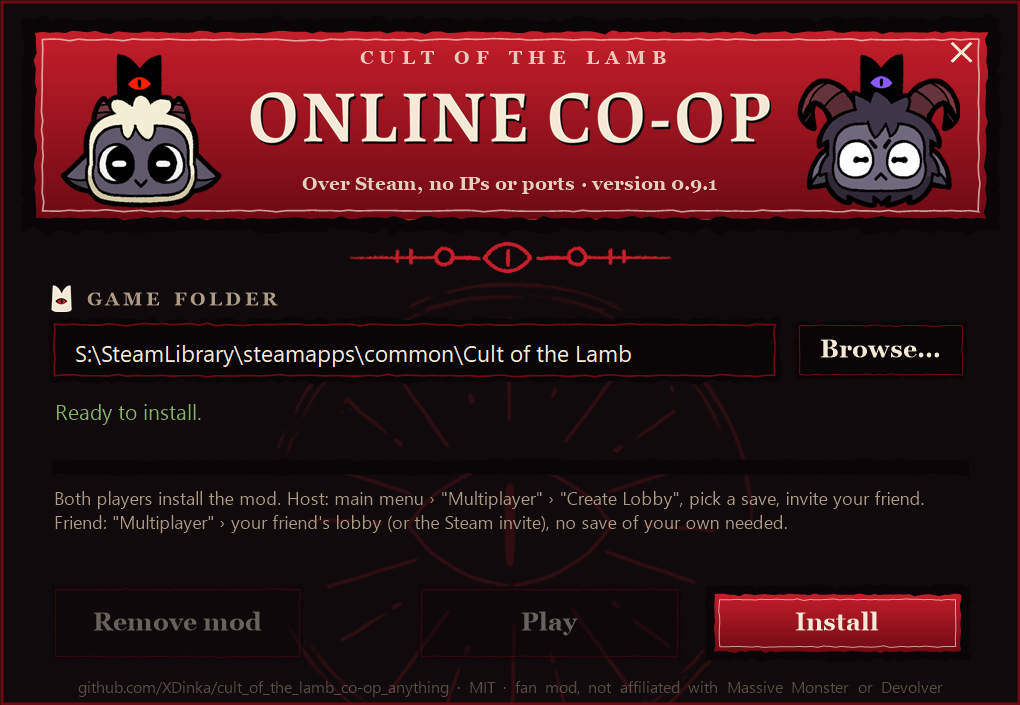
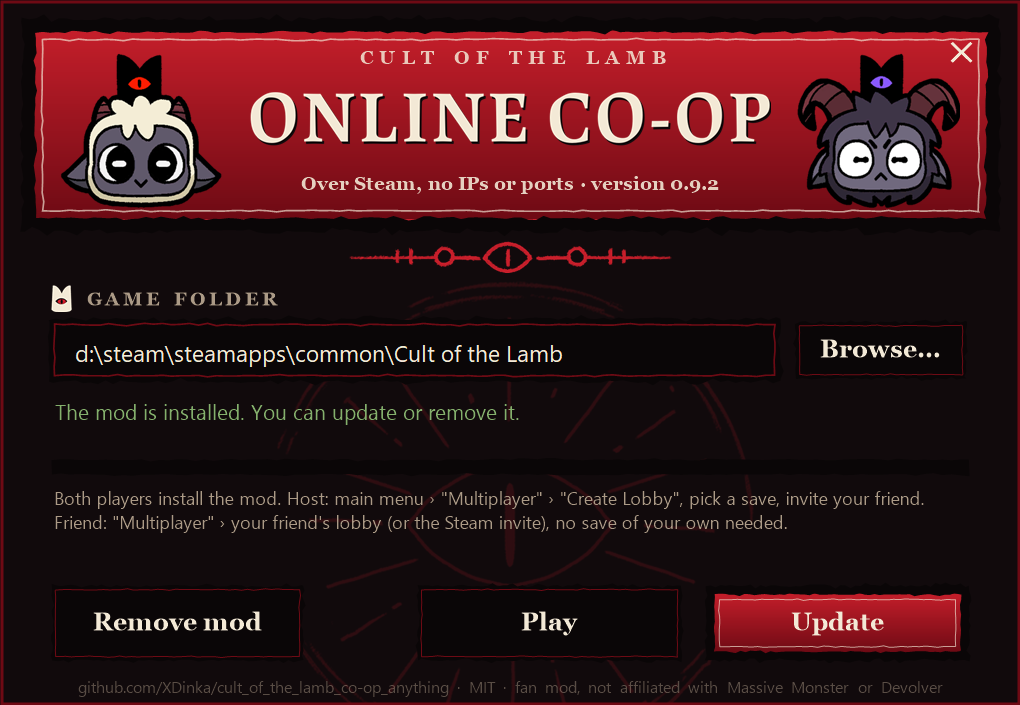
0.9.2: the version, the changelog and the art

diff --git a/COTLMP/Data/Version.cs b/COTLMP/Data/Version.cs
@@ -21,7 +21,7 @@ namespace COTLMP.Data
     {
         public const string CotlMpGuid = "geob99.cotl.cotlmp";
         public const string CotlMpName = "Cult of the Lamb Multiplayer Mod Plug-In";
-        public const string CotlMpVer = "0.9.1";
+        public const string CotlMpVer = "0.9.2";
     }
 }
 

diff --git a/CHANGELOG.md b/CHANGELOG.md
@@ -3,6 +3,85 @@
 Every release is on the [releases page](https://github.com/XDinka/cult_of_the_lamb_co-op_anything/releases)
 with its installer. Both players need the same version.
 
+## 0.9.2 (2026-10-29)
+
+Both players need this version.
+
+**Your hearts stay on screen when you're alone in a room** (the likely cause of "the friend's
+interface is gone"). When the partner went on ahead, or you came into a room on your own, the game
+rebuilt the hearts panel out of sight and the HUD stood without hearts until the partner came back.
+The panel now comes back in as the game's own does.
+
+![Alone in a room, the hearts stay](Media/changelog/0.9.2-hearts-alone.png)
+
+**Conversations hold together.** A conversation that waited for the partner now starts with its
+letterbox and the lamb held still; a copy started as a room comes in waits for the host's; a host
+whose game lags is waited for, with a line saying so, instead of the friend's copy being cut off
+(after a lag the room, the fight or the next talk that hang on it now come on both sides). A
+conversation the host leads always ends for the friend too.
+
+![The host's game lags: the friend waits with a line of the game's (a test conversation)](Media/changelog/0.9.2-host-lags.png)
+
+**One death screen for the pair.** Both see the same rooms and the same run time, a lamb no longer
+gets up behind its death screen, going home ends the run for both, and nobody lies down for good.
+Getting a fallen partner up is the game's own deal: you give them one heart at their side.
+
+**The One Who Waits' fate is asked of both.** At the very end the host's answer decides for the
+pair, the friend's pick shows as a vote, and the follower is spared or killed once.
+
+![The One Who Waits' fate on the friend's screen](Media/changelog/0.9.2-fate-wheel.png)
+
+**The partner's puppet keeps out of your way.** The game's own conversations and menus no longer
+hand their input to the puppet, so they read on; fleece 4 and 6 deal the tarot only to you, not a
+second time to the puppet; and knucklebones at Ratau's or another player's table no longer offers
+the match for two with the puppet in the second seat.
+
+**Smaller mendings.** The HUD watchdog leaves the game's own scenes and menus alone (it brought the
+HUD up over a chest's new item card); found in a test run and fixed by the code, not tested since:
+it also leaves alone the game's room of coming back to life, which hides the HUD on purpose; the
+game's walks are never cut short, so a room comes alive
+behind its door; the HUD comes in and out in step when the panels are rebuilt.
+
+**Tested** (two copies of the game on one PC, a loopback stand-in for Steam, the host on a copy of a
+real save, on this release's build): getting a fallen partner up both ways, by the logs (one heart
+given, the partner up with one heart, their figure standing again); the HUD after scenes and alone in
+a room, with both sides' frames. On earlier builds of 0.9.2: a conversation that waits and a lagging
+host, fleece 4, with both sides' frames; knucklebones, the lobby with a join from the friend's menu
+and a called-off reconnect, by the logs. On the stand without a save: the fate and the death screen.
+
+**Not tested:** real two-account Steam play; the game's real conversations (Ratau's, a mini-boss's
+intro) and the menus' watchdog with anything but a test conversation; coming into a room alone; the
+host left alone; knucklebones at a real table (only test tables); fishing; the host coming into the
+first room second.
+
+**Known issues:**
+- In the cult the friend sometimes has only the hearts, without the faith circle and the hunger bar;
+  going out of the cult and back in helps. The cause isn't found yet.
+- The game's ways back from death (the corrupted monolith after the final boss, the crown's pyre,
+  the Deal) aren't tested in online co-op; in our runs both players stayed in the monolith's room.
+  Deaths on the same save went the same way on an early build of 0.9.2; not compared with 0.9.1.
+- In the final fight the great form's eyes don't die on the friend's side; the fight still plays
+  through to the end for both.
+- The friend can still get stuck after a scene (black bars, no HUD). Then press the log button in
+  the pause menu and send us the log.
+
+<!-- discord-ru
+**Сердца не пропадают, когда вы одни в комнате** (вероятная причина «у друга пропал интерфейс»).
+**Разговоры держатся вместе.** Разговор, ждавший напарника, начинается как положено; при лаге хоста друг ждёт со строкой «Игра хоста отстаёт», и продолжение не теряется.
+**Один экран смерти на двоих.** Павшего поднимают, отдав ему одно сердце рядом с ним; уход домой любого заканчивает забег обоим.
+**Судьбу Того-кто-ждёт решают за обоих.**
+**Кукла напарника не мешает:** разговоры игры, руно с таро и кости у Ратау больше не цепляют её.
+Известное: в культе у друга бывают только сердца, без круга веры и шкалы голода (помогает перезайти в культ); воскрешения игры (монолит после финала, костёр, «Сделка») в онлайн-коопе не проверены; у друга в финале не умирают глаза босса, бой при этом доходит до конца; если друг застрял после сцены — кнопка лога в паузе, пришлите лог.
+-->
+<!-- discord-en
+**Your hearts stay when you're alone in a room** (the likely cause of "the friend's interface is gone"): whoever is left behind keeps the HUD.
+**Conversations hold together.** A talk that waited for the partner starts properly; with a lagging host the friend waits with a line saying so, and nothing after it is lost.
+**One death screen for the pair.** A fallen partner is got up by giving them one heart at their side; either player going home ends the run for both.
+**The One Who Waits' fate is decided for both.**
+**The partner's puppet keeps out of the way:** the game's talks, the fleece's tarot and Ratau's knucklebones leave it be.
+Known: in the cult the friend sometimes has only the hearts, without the faith circle and the hunger bar (going back into the cult helps); the game's ways back from death (the monolith after the final boss, the pyre, the Deal) aren't tested online; the friend's copy of the boss's eyes doesn't die, the fight still ends; if the friend gets stuck after a scene, use the log button in the pause menu and send us the log.
+-->
+
 ## 0.9.1 (2026-10-28)
 
 **A quest either player finishes counts for the pair.** The partner's quest lists are run through the

diff --git a/README.md b/README.md
@@ -3,7 +3,7 @@
 </p>
 
 <p align="center">
-  <a href="https://github.com/XDinka/cult_of_the_lamb_co-op_anything/releases/latest/download/CotlCoopInstaller.exe"><img alt="Download now: Windows installer, v0.9.1, free" src="Media/readme/download.png" width="700"></a>
+  <a href="https://github.com/XDinka/cult_of_the_lamb_co-op_anything/releases/latest/download/CotlCoopInstaller.exe"><img alt="Download now: Windows installer, v0.9.2, free" src="Media/readme/download.png" width="700"></a>
 </p>
 
 <p align="center">
@@ -15,7 +15,7 @@
 
 # Cult of the Lamb Co-op Anything
 
-**Version 0.9.1, pre-release.**
+**Version 0.9.2, pre-release.**
 
 You invite a friend through the Steam overlay. As in the game's own co-op, the friend plays in your
 game: they join from the main menu, no save of their own needed, and play on your save (nothing of it
@@ -23,7 +23,7 @@ is written on their side, their own saves stay as they were). You see each other
 dungeon runs. Dungeon runs are shared: same floors, same rooms, and
 damage to enemies counts on both sides.
 
-> **Pre-release 0.9.1.** Tested with two copies of the game on one PC and a loopback stand-in for
+> **Pre-release 0.9.2.** Tested with two copies of the game on one PC and a loopback stand-in for
 > Steam, including a simulated bad connection. Real two-account Steam play has not been tested yet.
 > Expect bugs: report them, and ideas, on [our Discord](https://discord.gg/52azdsYMD) (in the game:
 > Multiplayer → Bugs and ideas; an error window's "Copy the log" copies the log and opens it). The host's
@@ -81,7 +81,7 @@ invite). You stand in the lobby until the host presses Play. You play as the Goa
 | Enemies attack both players, hits on your lamb come from the owner's game (a dodge in time still saves you) | works in the automated test |
 | Shared enemy health and kills | works in the automated test |
 | Shared pickups: what one picks up, both get | works in the automated test |
-| Knocked out instead of dead while the partner fights on; stand next to them for 3 s to revive, or clear the room | works in the automated test |
+| Knocked out instead of dead while the partner fights on; give them one of your hearts at their side (the game's own deal) to revive, or clear the room | works in the automated test |
 | Game over only when both are down | works in the automated test |
 | The map between floors is the host's for both; either player picks the way, whoever picks first, and the other is taken there. The next floor gets the same seed | works in the automated test (two floors, the joining player picked, the host followed) |
 | Each player walks a floor on their own (the partner's puppet at a door takes nobody along); rooms one player opened show on the other's minimap | works in the automated test |
@@ -145,12 +145,12 @@ invite). You stand in the lobby until the host presses Play. You play as the Goa
 
 ## По-русски
 
-Версия 0.9.1, предрелиз.
+Версия 0.9.2, предрелиз.
 
 Онлайн-кооператив для Cult of the Lamb через Steam. Как в обычном кооперативе, друг играет в вашей
 игре: заходит из главного меню, своё сохранение ему не нужно, играет на сохранении хоста (у него оно
 не записывается, его собственные сохранения не трогаются). Вы видите друг друга в культе и в забегах. Подземелье общее: враги одни на двоих и атакуют обоих, лут
-получают оба, павшего друга можно поднять (постоять рядом 3 секунды) или зачистить комнату.
+получают оба, павшего друга можно поднять (подойти и отдать ему одно своё сердце, как в кооперативе игры) или зачистить комнату.
 Хост выглядит Ягнёнком, друг Козлом, как в оригинальном кооперативе. Установка: [скачайте `CotlCoopInstaller.exe`](https://github.com/XDinka/cult_of_the_lamb_co-op_anything/releases/latest/download/CotlCoopInstaller.exe) у обоих игроков (или `install.cmd` из релизного архива).
 Хост: в главном меню «Мультиплеер», «Создать лобби», выбрать сохранение (или пустой слот для новой игры вдвоём),
 «Пригласить друга», потом «Играть». Друг: «Мультиплеер», имя друга в «Лобби друзей» (или принять приглашение).
@@ -217,7 +217,7 @@ paths from environment variables (see the top of each).
   the other game stops its copies' AI once they have spawned in and removes any the owner doesn't
   have. See `COTLMP/Game/RoomSync.cs`.
 - **Knockout.** Uses the game's own co-op knockout (`CoopManager.KnockOutPlayer`, woken on room
-  clear), plus a 3 second stand-next-to-revive bar. See `COTLMP/Game/CoopLife.cs`.
+  clear) and its own revive deal: one heart given at the fallen one's side. See `COTLMP/Game/CoopLife.cs`.
 - **Cleared rooms.** A completed room is sent to the partner (per run); when they walk in, their
   copy is completed the way the game marks a finished room, without a second fight or a second
   reward. Remote kills drop no loot, since the killer's loot is shared. See `ClearedRooms.cs`.
